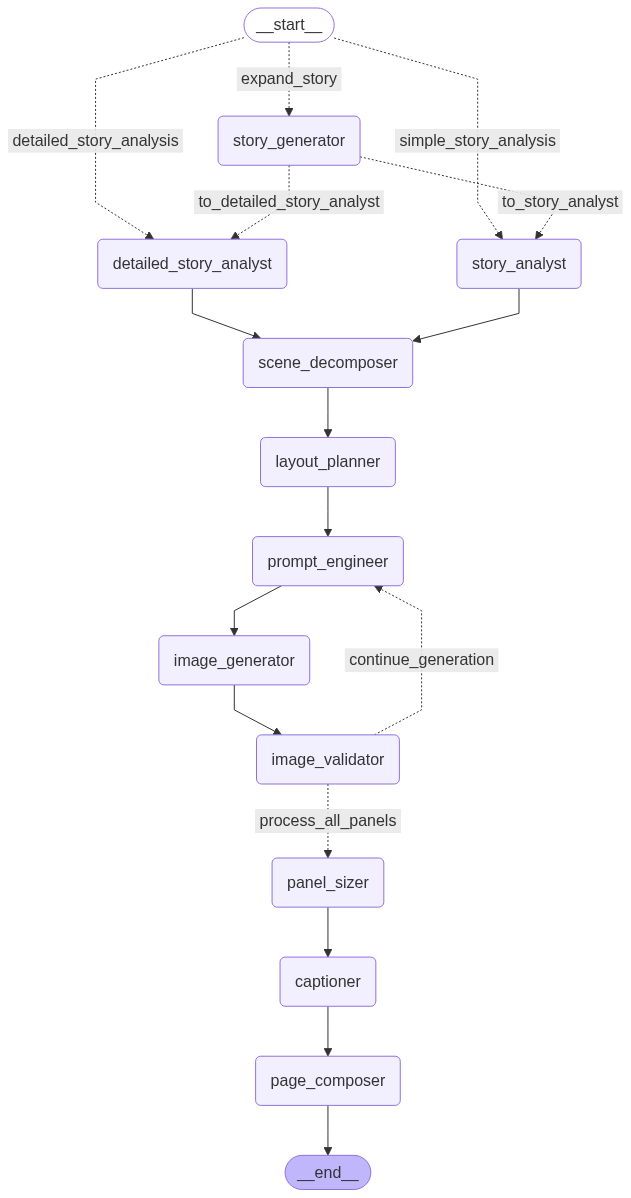
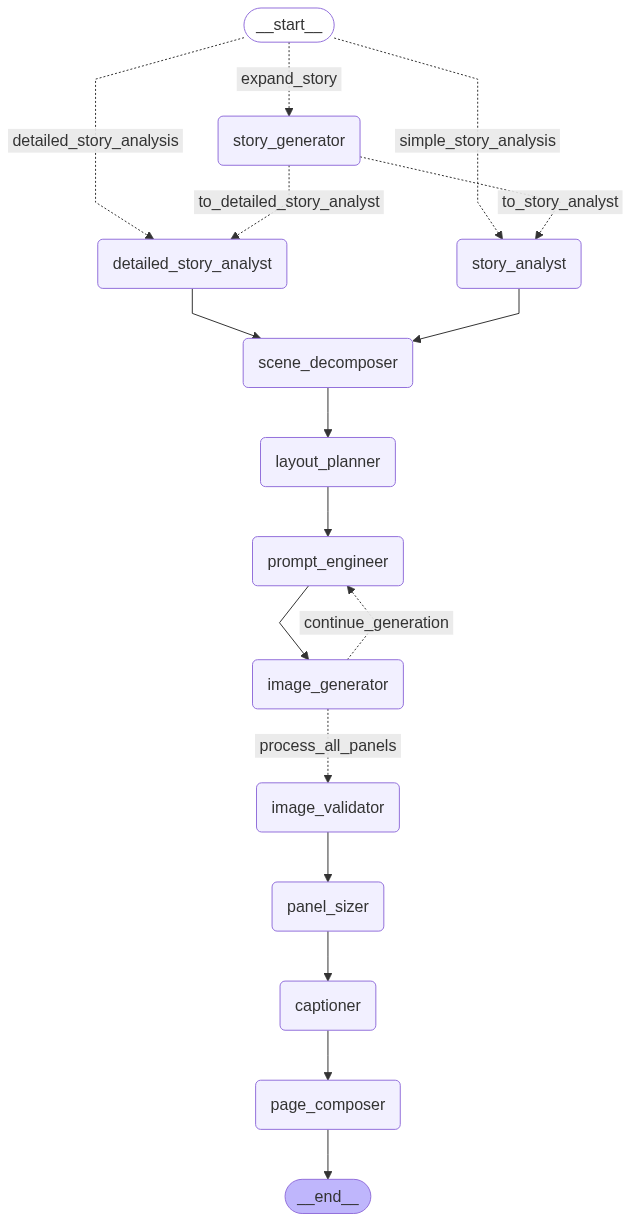
add main fix

diff --git a/agents/scene_decomposer.py b/agents/scene_decomposer.py
@@ -53,7 +53,7 @@ def scene_decomposer(state: ComicGenerationState, prompt_file: str = "hybrid_sce
 
 	panel_count = state['panel_count']
 	story_text = state['story_text']
-	text_engine = state.get("text_engine", "openai_gpt4") # Get selected engine
+	text_engine = state.get("text_engine", "openai_gpt4o") # Get selected engine
 	max_retries = 2
 
 	# Get the appropriate LLM client from the factory
@@ -79,21 +79,25 @@ def scene_decomposer(state: ComicGenerationState, prompt_file: str = "hybrid_sce
 			response = llm.generate_text(prompt, max_tokens=8000)
 			response = sanitize_llm_response(response)  # Clean up the response
 			scenes = json.loads(response)
+
+			# --- Validation Logic ---
 			if not isinstance(scenes, list):
-				logger.warning(f"   > Validation Failed: LLM output is not a list.")
+				logger.warning("   > Validation Failed: LLM output is not a list. Retrying...")
 				continue
+
 			if len(scenes) != panel_count:
-				logger.warning(f"   > Validation Failed: Expected {panel_count} panels, got {len(scenes)}.")
-				if len(scenes) < panel_count:
-					logger.warning("   > Not enough scenes generated. Retrying...")
-				else:
-					logger.warning("   > Too many scenes generated. Retrying...")
-					if attempt == max_retries - 1:
-						logger.error("   > Too many scenes generated. Truncating to panel count.")
+				if attempt < max_retries - 1: # If it's not the last attempt, just retry
+					logger.warning(f"   > Validation Failed: Expected {panel_count} panels, got {len(scenes)}. Retrying...")
+					continue
+				else: # This is the final attempt, handle it as a fallback
+					if len(scenes) < panel_count:
+						logger.error(f"   > Final attempt failed: Not enough scenes generated ({len(scenes)}/{panel_count}).")
+						raise RuntimeError(f"Failed to generate enough scenes after {max_retries} attempts.")
+					else:
+						logger.warning(f"   > Final attempt: Too many scenes generated. Truncating from {len(scenes)} to {panel_count}.")
 						scenes = scenes[:panel_count]
-						break
-				# If we reach here, we need to retry
-				continue
+			
+			# If we reach here, the scenes are valid or have been corrected
 			logger.info(f"   > Successfully decomposed and validated into {len(scenes)} scenes.")
 			logger.debug(f"   > Scene: {scenes}")
 			return {
@@ -108,5 +112,6 @@ def scene_decomposer(state: ComicGenerationState, prompt_file: str = "hybrid_sce
 			logger.error(f"   > An unexpected error occurred during LLM call: {e}")
 			continue
 
+	# This part is reached only if all retries fail in a way that doesn't raise an exception above
 	logger.error("   > All LLM attempts failed. Unable to generate scenes.")
 	raise RuntimeError("Failed to generate valid scenes from the story after multiple attempts.")

diff --git a/graph/workflow.py b/graph/workflow.py
@@ -40,13 +40,13 @@ def prompt_based_routing(state: ComicGenerationState) -> str:
         raise ValueError(f"Unknown prompt type '{prompt}'. Must be 'Simple' or 'Detailed'.")
 
 def should_continue_generating(state: ComicGenerationState) -> str:
-    """Decides whether to continue generating panels or move to sizing and captioning."""
+    """Decides whether to continue generating panels or move to validation."""
     print("---CONDITION: Should we continue generating panels?---")
     if state["current_panel_index"] < len(state["scenes"]):
         print(f"   > More panels to generate. Continuing loop. ({state['current_panel_index']} / {len(state['scenes'])})")
         return "continue_generation"
     else:
-        print("   > All panels generated. Routing to panel sizer for batch processing.")
+        print("   > All panels generated. Routing to image validator for batch processing.")
         return "process_all_panels"
 
 def create_workflow():
@@ -92,19 +92,19 @@ def create_workflow():
     workflow.add_edge("scene_decomposer", "layout_planner")
     workflow.add_edge("layout_planner", "prompt_engineer")
     workflow.add_edge("prompt_engineer", "image_generator")
-    workflow.add_edge("image_generator", "image_validator")
 
     # 4. Create the generation loop
     workflow.add_conditional_edges(
-        "image_validator",
+        "image_generator",
         should_continue_generating,
         {
             "continue_generation": "prompt_engineer",
-            "process_all_panels": "panel_sizer",
+            "process_all_panels": "image_validator",
         },
     )
 
     # 5. Define the post-generation sequential flow
+    workflow.add_edge("image_validator", "panel_sizer")
     workflow.add_edge("panel_sizer", "captioner")
     workflow.add_edge("captioner", "page_composer")
     workflow.add_edge("page_composer", END)

diff --git a/ui/streamlit_app.py b/ui/streamlit_app.py
@@ -161,18 +161,8 @@ if generate_button:
                 "prompt": PROMPT,
                 "target_language": selected_sarvam_language,
             }
-            word_count = len(story_input.strip().split())
-            # Create and run the workflow
-            if word_count < STORY_EXPANSION_WORD_THRESHOLD:
-                entry = "story_generator"
-            else:
-                if PROMPT == "Simple":
-                    entry = "story_analyst"
-                elif PROMPT == "Detailed":
-                    entry = "detailed_story_analyst"
-                else:
-                    raise ValueError("Incorrect prompt. Expected 'Simple' or 'Detailed'.")
-            app = create_workflow(entry)
+            # Initialize the workflow with the provided inputs
+            app = create_workflow()
             st.session_state.result = app.invoke(inputs, {"recursion_limit": 100})
     else:
         st.session_state.result = None
@@ -205,7 +195,7 @@ if st.session_state.result:
                     if validation_results and idx < len(validation_results):
                         validation = validation_results[idx]
                         st.markdown(
-                            f"**Score:** {validation.get('final_score', 'N/A')}<br>"
+                            # f"**Score:** {validation.get('final_score', 'N/A')}<br>"
                             f"**Decision:** {validation.get('final_decision', 'N/A')}",
                             unsafe_allow_html=True
                         )

diff --git a/agents/image_validator.py b/agents/image_validator.py
@@ -7,7 +7,7 @@ from utils.llm_factory import get_model_client
 
 
 class ImageValidator:
-    def __init__(self, model_name="openai/clip-vit-large-patch14", threshold=0.3, device=None):
+    def __init__(self, model_name="openai/clip-vit-large-patch14", threshold=0.225, device=None):
         # Automatically choose the best available device: MPS (Mac), CUDA (GPU), or CPU
         self.device = device or (
             "mps" if torch.backends.mps.is_available()
@@ -297,7 +297,7 @@ def image_validator(state: ComicGenerationState) -> dict:
         # Weights determine the importance of each part in the final score.
         "weights": {"scene": 0.25, "character": 0.3, "style": 0.15},
         # Thresholds set the minimum similarity score for a part to be considered "present".
-        "thresholds": {"scene": 0.25, "character": 0.25, "action": 0.2}
+        "thresholds": {"scene": 0.20, "character": 0.20, "style": 0.20},
     }
 
     try:

diff --git a/README.md b/README.md
@@ -20,30 +20,50 @@ DeepDoodle/
 │
 ├── agents/                      # Modular AI agent implementations (each is a workflow node)
 │   ├── __init__.py
+│   ├── story_generator.py       # Expands a short user prompt into a full story
 │   ├── story_analyst.py         # Analyzes story, extracts genre/style/mood
+│   ├── detailed_story_analyst.py# Analyzes a detailed story for key elements
 │   ├── scene_decomposer.py      # Splits story into visual scenes/panels
 │   ├── layout_planner.py        # Determines panel dimensions and page layouts
 │   ├── prompt_engineer.py       # Crafts prompts for image generation
 │   ├── image_generator.py       # Generates panel images at target dimensions
+│   ├── image_validator.py       # (Async) Validates generated images for quality
 │   ├── panel_sizer.py           # Resizes/crops raw panels to ideal dimensions from layout plan
 │   ├── captioner.py             # Adds captions/text to sized panels
-│   └── page_composer.py         # Stitches panels onto pages using offsets from layout plan
+│   ├── page_composer.py         # Stitches panels onto pages using offsets from layout plan
+│   └── sarvam.py                # Handles text translation for multi-language support
+│
+├── configs/                     # Configuration files for different aspects of the project
+│   ├── __init__.py
+│   ├── base_config.py           # Core project settings (API keys, root path)
+│   ├── image_opts_config.py     # Image generation options
+│   ├── llm_api_config.py        # LLM provider configurations
+│   ├── paths_config.py          # Directory and file paths
+│   ├── prompt_styles.py         # Style presets for prompt engineering
+│   ├── story_elements_config.py # Story-related configurations
+│   ├── text_style_config.py     # Caption and text styling
+│   └── ui_options_config.py     # Options for the Streamlit UI
 │
 ├── graph/                       # Workflow orchestration (LangGraph)
 │   ├── __init__.py
-│   └── workflow.py              # Defines the LangGraph workflow
+│   └── workflow.py              # Defines the LangGraph state machine and agent connections
 │
-├── models/                      # Data structures and type definitions
-│   ├── __init__.py              # (if you add one)
-│   ├── comic_generation_state.py # Defines the ComicGenerationState (shared state dict)
-│   ├── panel_layout_detail.py   # Defines the PanelLayoutDetail TypedDict
-│   ├── scene.py                 # Defines the Scene TypedDict
-│   └── caption.py               # Defines the Caption TypedDict
-│
-├── utils/                       # Utility functions and configuration
+├── models/                      # Data structures and type definitions (TypedDicts)
 │   ├── __init__.py
-│   ├── config.py                # Constants (page dimensions, output dirs, font path, etc.)
-│   └── layout.py                # Comic page layout functions (grid, strip, etc.)
+│   ├── comic_generation_state.py # Defines the main state object for the graph
+│   ├── panel_layout_detail.py   # Details for each panel's layout
+│   ├── scene.py                 # A single panel's description and captions
+│   ├── caption.py               # A single caption's text, speaker, and type
+│   └── caption_style_metadata.py# Styling information for captions
+│
+├── utils/                       # Shared utility functions
+│   ├── __init__.py
+│   ├── caption_util.py          # Functions for drawing and styling captions
+│   ├── layout_util.py           # Comic page layout and composition functions
+│   ├── llm_factory.py           # Factory for creating different LLM clients
+│   ├── load_prompts.py          # Helper to load prompt templates from files
+│   ├── metrics.py               # Evaluation metrics (e.g., ROUGE, BERTScore)
+│   └── response_util.py         # Utilities for parsing and cleaning LLM responses
 │
 ├── output/                      # Generated images (created at runtime)
 │   ├── panels/                  # Raw individual panel images from image_generator
@@ -55,9 +75,15 @@ DeepDoodle/
 │   ├── __init__.py
 │   └── streamlit_app.py         # Streamlit app for interactive comic generation
 │
+├── prompts/                     # Text files containing prompts for LLM agents
+│   └── ...
+│
 ├── data/                        # Sample data and stories
 │   └── samples/
 │       └── example_story.txt
+│
+└── test/                        # Test scripts
+    └── ...
 ```
 
 ---
@@ -135,7 +161,7 @@ This will create an image `text_shaping_verification.png` in the root directory.
 Create a `.env` file in the root directory with this content:
 ```env
 OPENAI_API_KEY=your_openai_key
-HUGGINGFACEHUB_API_TOKEN=your_hf_token
+HUGGINGFACE_API_TOKEN=your_hf_token
 ```
 
 ### 5. (Optional) Place sample images
@@ -150,15 +176,18 @@ streamlit run ui/streamlit_app.py
 
 ## 🧠 Features
 
-- **Story Analyst**: Analyzes the story, extracts genre, style, and mood.
-- **Scene Decomposer**: Splits the story into visual scenes/panels.
+- **Story Generator**: If the user provides a short prompt, this agent expands it into a complete story.
+- **Story Analyst**: Analyzes the story to extract key elements like genre, artistic style, mood, and character descriptions.
+- **Scene Decomposer**: Breaks down the full story into a sequence of distinct scenes, with one scene corresponding to one comic panel.
 - **Layout Planner**: Determines the detailed layout for each panel on each page, including ideal dimensions for final placement, target dimensions for image generation (multiple of 64), and precise x/y offsets for composition. It prioritizes UI-selected layouts and dynamically adapts for remaining panels.
-- **Prompt Engineer**: Converts scenes and metadata into image prompts.
-- **Image Generator**: Generates images for each panel based on prompts, adhering to the target generation dimensions specified by the `Layout Planner`.
-- **Panel Sizer**: Takes the generated images and resizes/crops them to the ideal dimensions defined in the layout plan from `Layout Planner`, preparing them for final page composition.
-- **Captioner**: Adds dialogue or narrative captions to the (already sized) panel images.
+- **Prompt Engineer**: Converts scene descriptions and style metadata into detailed, effective prompts for the image generation model.
+- **Image Generator**: Generates an image for each panel based on its prompt, adhering to the target dimensions specified by the `Layout Planner`.
+- **Image Validator**: (Asynchronous) Runs after image generation to check for common issues like blank or corrupted images. This step is designed not to block the main workflow.
+- **Panel Sizer**: Takes the generated images and resizes/crops them to the ideal dimensions defined in the layout plan, preparing them for final page composition.
+- **Captioner**: Renders dialogue, narration, and sound effects onto the sized panel images.
 - **Page Composer**: Arranges the sized and captioned panels onto a blank page according to the ideal dimensions and x/y offsets provided by the `Layout Planner`.
-- **LangGraph-based orchestration**: Orchestrates agent communication and workflow.
+- **Sarvam Translator**: Provides multi-language support by translating caption text on-the-fly.
+- **LangGraph-based Orchestration**: Uses a state machine to manage the flow of data and control the execution of agents, enabling complex conditional logic and loops.
 
 ---
 
